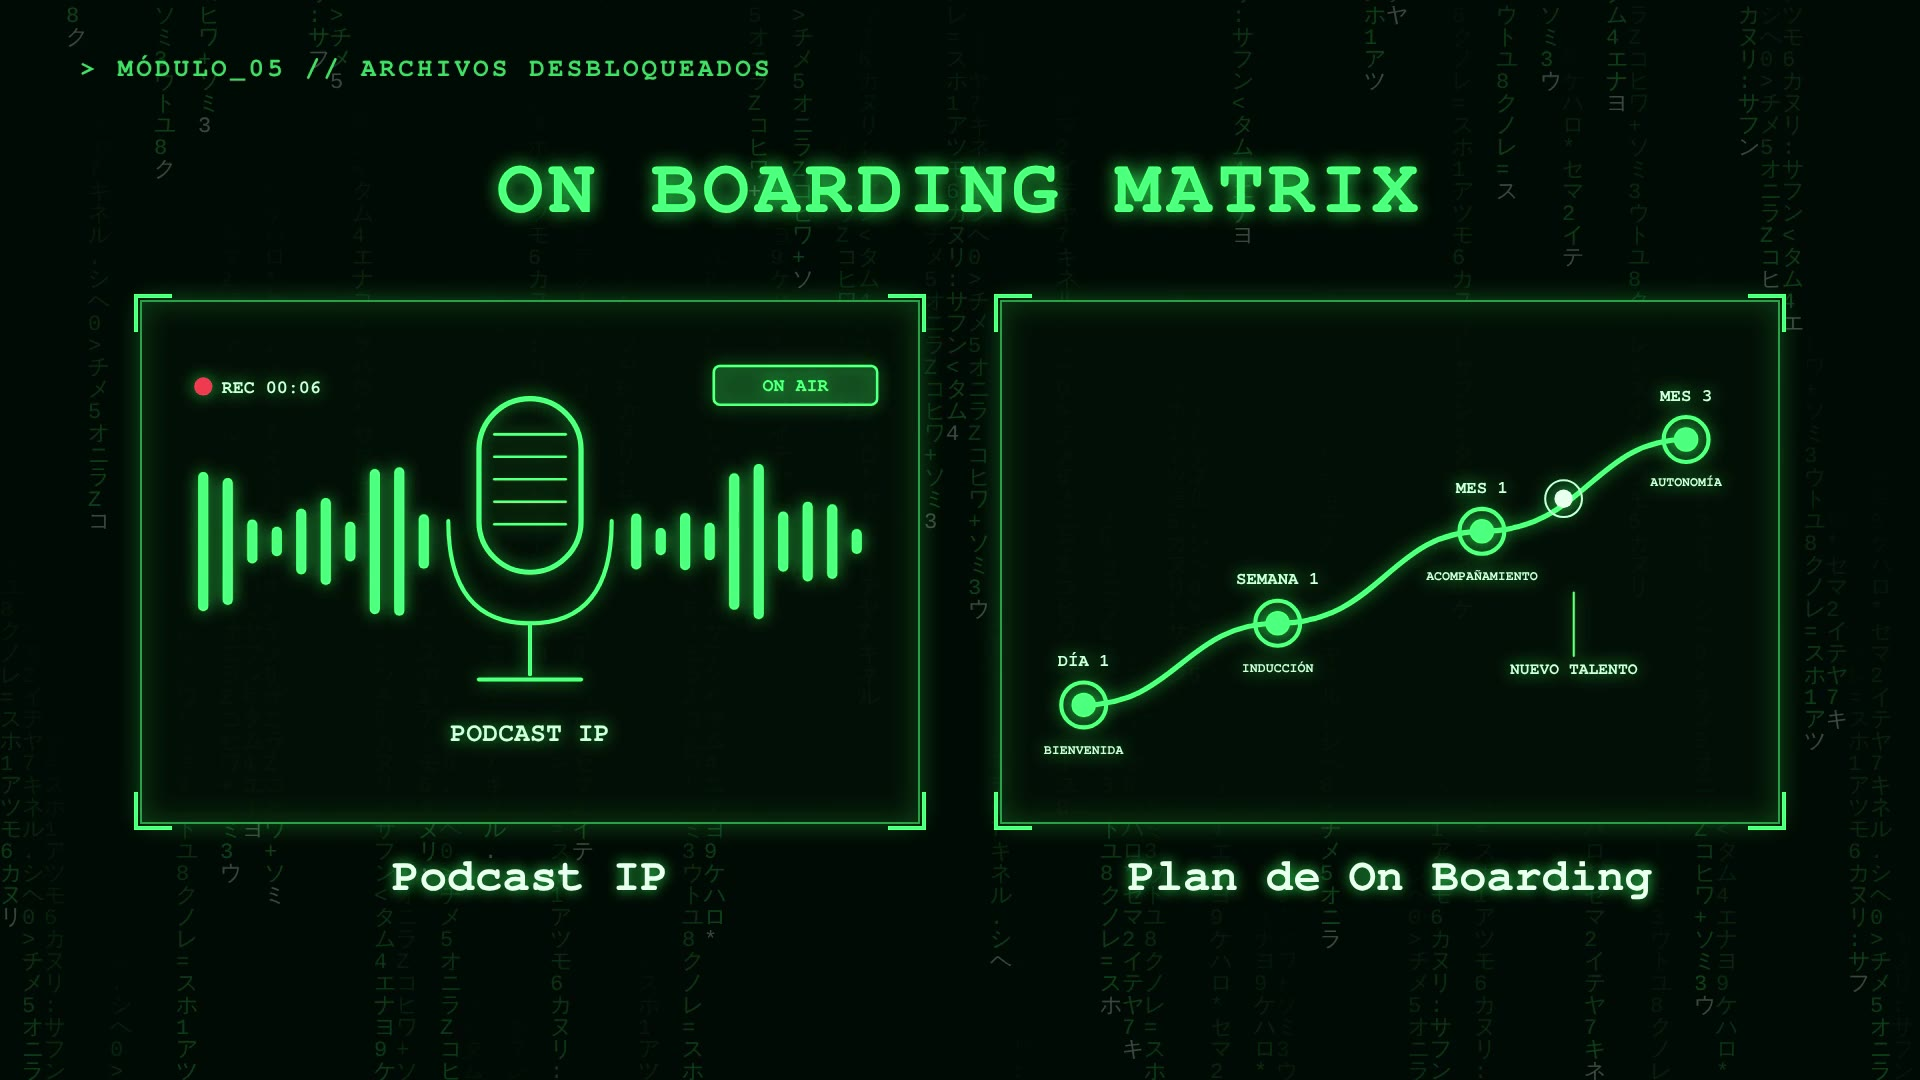
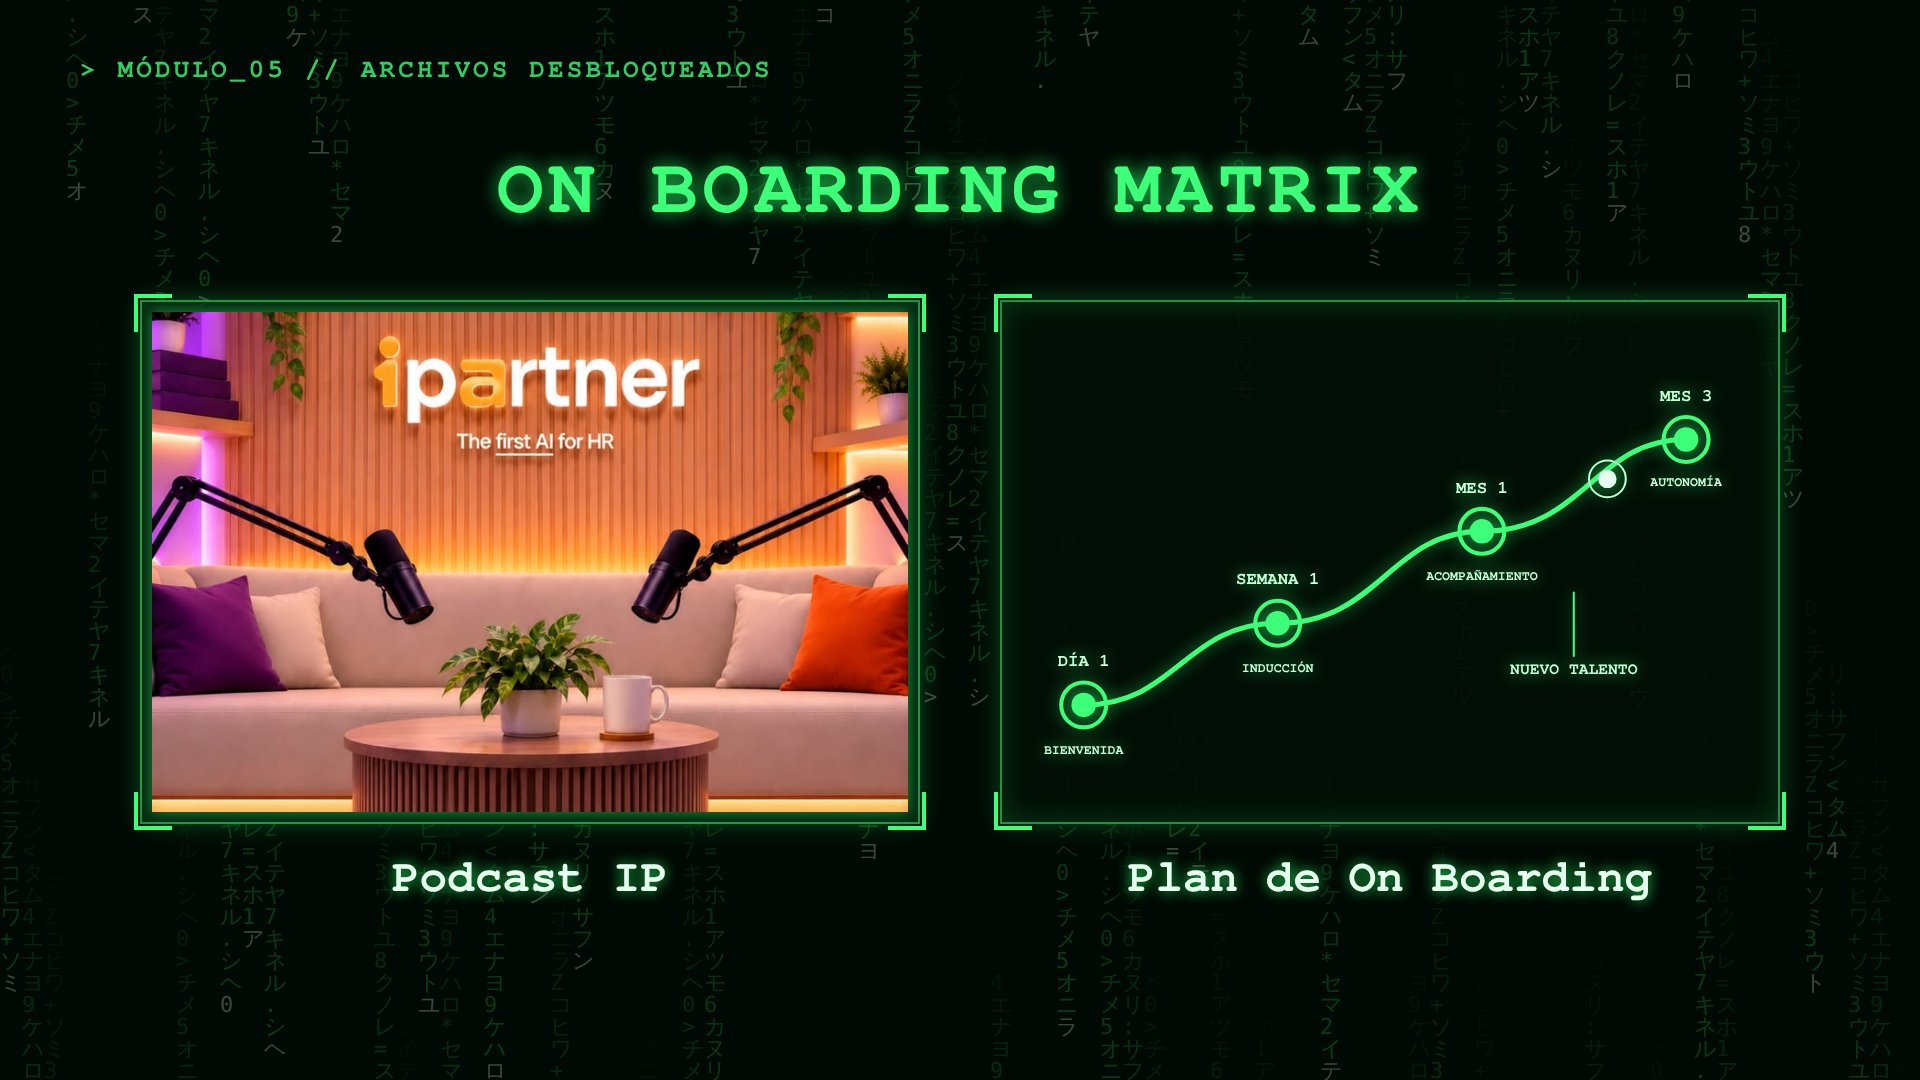
Matrix: imágenes para Factoring BCP y Podcast IP
Claude-Session: https://claude.ai/code/session_01TNESLuQNUwZZ73yDMFRmWn

diff --git a/videos/matrix-2026/compositions/m4-ppt.html b/videos/matrix-2026/compositions/m4-ppt.html
@@ -37,7 +37,7 @@
     <div class="tit" id="t1"></div>
   </div>
   <div id="c2" class="abs card">
-    <div class="marco"><svg class="ico" viewBox="0 0 760 440"><rect stroke="#3dff7a" fill="none" stroke-linecap="round" stroke-linejoin="round" pathLength="1" class="tr" stroke-width="4" x="50" y="100" width="150" height="190" rx="8"/><text font-family="Maquina, monospace" fill="#c8ffd8" font-size="18" x="125" y="135" text-anchor="middle" class="fx" data-t="1.8">FACTURA</text><path stroke="#3dff7a" fill="none" stroke-linecap="round" stroke-linejoin="round" pathLength="1" class="tr" stroke-width="2.5" d="M75 165 H175"/><path stroke="#3dff7a" fill="none" stroke-linecap="round" stroke-linejoin="round" pathLength="1" class="tr" stroke-width="2.5" d="M75 193 H175"/><path stroke="#3dff7a" fill="none" stroke-linecap="round" stroke-linejoin="round" pathLength="1" class="tr" stroke-width="2.5" d="M75 221 H175"/><path stroke="#3dff7a" fill="none" stroke-linecap="round" stroke-linejoin="round" pathLength="1" class="tr" stroke-width="2.5" d="M75 249 H175"/><path stroke="#3dff7a" fill="none" stroke-linecap="round" stroke-linejoin="round" pathLength="1" class="tr" stroke-width="3" d="M215 195 H305"/><path stroke="#3dff7a" fill="none" stroke-linecap="round" stroke-linejoin="round" pathLength="1" class="tr" stroke-width="3" d="M290 182 L305 195 L290 208"/><path stroke="#3dff7a" fill="none" stroke-linecap="round" stroke-linejoin="round" pathLength="1" class="tr" stroke-width="4" d="M320 150 L380 110 L440 150 Z"/><path stroke="#3dff7a" fill="none" stroke-linecap="round" stroke-linejoin="round" pathLength="1" class="tr" stroke-width="4" d="M330 155 H430"/><path stroke="#3dff7a" fill="none" stroke-linecap="round" stroke-linejoin="round" pathLength="1" class="tr" stroke-width="5" d="M340 165 V245"/><path stroke="#3dff7a" fill="none" stroke-linecap="round" stroke-linejoin="round" pathLength="1" class="tr" stroke-width="5" d="M366 165 V245"/><path stroke="#3dff7a" fill="none" stroke-linecap="round" stroke-linejoin="round" pathLength="1" class="tr" stroke-width="5" d="M392 165 V245"/><path stroke="#3dff7a" fill="none" stroke-linecap="round" stroke-linejoin="round" pathLength="1" class="tr" stroke-width="5" d="M418 165 V245"/><path stroke="#3dff7a" fill="none" stroke-linecap="round" stroke-linejoin="round" pathLength="1" class="tr" stroke-width="4" d="M322 255 H438"/><text font-family="Maquina, monospace" fill="#c8ffd8" font-size="20" x="380" y="290" text-anchor="middle" class="fx" data-t="2.4">BCP</text><text font-family="Maquina, monospace" fill="#c8ffd8" font-size="14" x="380" y="312" text-anchor="middle" class="fx" data-t="2.6">FACTORING</text><path stroke="#3dff7a" fill="none" stroke-linecap="round" stroke-linejoin="round" pathLength="1" class="tr" stroke-width="3" d="M455 195 H545"/><path stroke="#3dff7a" fill="none" stroke-linecap="round" stroke-linejoin="round" pathLength="1" class="tr" stroke-width="3" d="M530 182 L545 195 L530 208"/><ellipse stroke="#3dff7a" fill="none" stroke-linecap="round" stroke-linejoin="round" pathLength="1" class="tr" stroke-width="3" cx="630" cy="245" rx="58" ry="14"/><ellipse stroke="#3dff7a" fill="none" stroke-linecap="round" stroke-linejoin="round" pathLength="1" class="tr" stroke-width="3" cx="630" cy="223" rx="58" ry="14"/><ellipse stroke="#3dff7a" fill="none" stroke-linecap="round" stroke-linejoin="round" pathLength="1" class="tr" stroke-width="3" cx="630" cy="201" rx="58" ry="14"/><ellipse stroke="#3dff7a" fill="none" stroke-linecap="round" stroke-linejoin="round" pathLength="1" class="tr" stroke-width="3" cx="630" cy="179" rx="58" ry="14"/><text font-family="Maquina, monospace" fill="#c8ffd8" font-size="30" x="630" y="170" text-anchor="middle" class="fx" data-t="3.0">S/</text><text font-family="Maquina, monospace" fill="#c8ffd8" font-size="16" x="630" y="290" text-anchor="middle" class="fx" data-t="3.2">LIQUIDEZ</text><g data-mov="125,195;380,195;630,195|3|0.0|3.6" opacity="0"><rect x="-14" y="-18" width="28" height="36" rx="3" fill="rgba(61,255,122,.25)" stroke="#3dff7a" stroke-width="2"/></g><g data-mov="125,195;380,195;630,195|3|0.3333333333333333|3.6" opacity="0"><rect x="-14" y="-18" width="28" height="36" rx="3" fill="rgba(61,255,122,.25)" stroke="#3dff7a" stroke-width="2"/></g><g data-mov="125,195;380,195;630,195|3|0.6666666666666666|3.6" opacity="0"><rect x="-14" y="-18" width="28" height="36" rx="3" fill="rgba(61,255,122,.25)" stroke="#3dff7a" stroke-width="2"/></g><path stroke="#3dff7a" fill="none" stroke-linecap="round" stroke-linejoin="round" pathLength="1" class="tr" stroke-width="3" d="M60 400 L150 385 L240 392 L330 365 L420 372 L510 340 L600 345 L700 312"/><text font-family="Maquina, monospace" fill="#c8ffd8" font-size="15" x="60" y="355" text-anchor="start" class="fx" data-t="4.0">FLUJO DE CAJA ▲</text></svg><div class="tapa abs"></div><div class="scan abs"></div>
+    <div class="marco"><img class="ico" src="../assets/iconos/factoring.png" style="object-fit:contain;padding:18px;box-sizing:border-box" alt="Factoring BCP"/><div class="tapa abs"></div><div class="scan abs"></div>
       <i class="esq a"></i><i class="esq b"></i><i class="esq c"></i><i class="esq d"></i></div>
     <div class="tit" id="t2"></div>
   </div>
@@ -124,7 +124,7 @@
     tl.fromTo(c + " .tr", { strokeDashoffset: 1 }, { strokeDashoffset: 0, duration: 0.9, stagger: 0.12, ease: "power1.inOut", immediateRender: false }, d + 0.5);
   });
   window.__timelines = window.__timelines || {};
-  tl.fromTo("#c1 .ico", { y: 0 }, { y: -10, duration: 1.6, ease: "sine.inOut", repeat: 5, yoyo: true, immediateRender: false }, 2.0);
+  tl.fromTo("#c1 .ico, #c2 .ico", { y: 0 }, { y: -10, duration: 1.6, ease: "sine.inOut", repeat: 5, yoyo: true, immediateRender: false }, 2.0);
   window.__timelines["m4-ppt"] = tl;
   pintar(); tl.seek(0);
   // modo presentación: tras la entrada, la lluvia sigue en bucle

diff --git a/videos/matrix-2026/compositions/m5-ppt.html b/videos/matrix-2026/compositions/m5-ppt.html
@@ -32,7 +32,7 @@
   <div id="mod" class="abs"></div>
   <div id="h" class="abs"></div>
   <div id="c1" class="abs card">
-    <div class="marco"><svg class="ico" viewBox="0 0 760 440"><rect stroke="#3dff7a" fill="none" stroke-linecap="round" stroke-linejoin="round" pathLength="1" class="tr" stroke-width="5" x="330" y="60" width="100" height="170" rx="50"/><path stroke="#3dff7a" fill="none" stroke-linecap="round" stroke-linejoin="round" pathLength="1" class="tr" stroke-width="2.5" d="M345 95 H415"/><path stroke="#3dff7a" fill="none" stroke-linecap="round" stroke-linejoin="round" pathLength="1" class="tr" stroke-width="2.5" d="M345 117 H415"/><path stroke="#3dff7a" fill="none" stroke-linecap="round" stroke-linejoin="round" pathLength="1" class="tr" stroke-width="2.5" d="M345 139 H415"/><path stroke="#3dff7a" fill="none" stroke-linecap="round" stroke-linejoin="round" pathLength="1" class="tr" stroke-width="2.5" d="M345 161 H415"/><path stroke="#3dff7a" fill="none" stroke-linecap="round" stroke-linejoin="round" pathLength="1" class="tr" stroke-width="2.5" d="M345 183 H415"/><path stroke="#3dff7a" fill="none" stroke-linecap="round" stroke-linejoin="round" pathLength="1" class="tr" stroke-width="4" d="M300 180 Q300 280 380 280 Q460 280 460 180"/><path stroke="#3dff7a" fill="none" stroke-linecap="round" stroke-linejoin="round" pathLength="1" class="tr" stroke-width="4" d="M380 280 V330"/><path stroke="#3dff7a" fill="none" stroke-linecap="round" stroke-linejoin="round" pathLength="1" class="tr" stroke-width="4" d="M330 335 H430"/><line class="onda" data-on="2.6" x1="60" x2="60" y1="200" y2="200" stroke="#3dff7a" stroke-width="10" stroke-linecap="round"/><line class="onda" data-on="2.6" x1="84" x2="84" y1="200" y2="200" stroke="#3dff7a" stroke-width="10" stroke-linecap="round"/><line class="onda" data-on="2.6" x1="108" x2="108" y1="200" y2="200" stroke="#3dff7a" stroke-width="10" stroke-linecap="round"/><line class="onda" data-on="2.6" x1="132" x2="132" y1="200" y2="200" stroke="#3dff7a" stroke-width="10" stroke-linecap="round"/><line class="onda" data-on="2.6" x1="156" x2="156" y1="200" y2="200" stroke="#3dff7a" stroke-width="10" stroke-linecap="round"/><line class="onda" data-on="2.6" x1="180" x2="180" y1="200" y2="200" stroke="#3dff7a" stroke-width="10" stroke-linecap="round"/><line class="onda" data-on="2.6" x1="204" x2="204" y1="200" y2="200" stroke="#3dff7a" stroke-width="10" stroke-linecap="round"/><line class="onda" data-on="2.6" x1="228" x2="228" y1="200" y2="200" stroke="#3dff7a" stroke-width="10" stroke-linecap="round"/><line class="onda" data-on="2.6" x1="252" x2="252" y1="200" y2="200" stroke="#3dff7a" stroke-width="10" stroke-linecap="round"/><line class="onda" data-on="2.6" x1="276" x2="276" y1="200" y2="200" stroke="#3dff7a" stroke-width="10" stroke-linecap="round"/><line class="onda" data-on="2.6" x1="484" x2="484" y1="200" y2="200" stroke="#3dff7a" stroke-width="10" stroke-linecap="round"/><line class="onda" data-on="2.6" x1="508" x2="508" y1="200" y2="200" stroke="#3dff7a" stroke-width="10" stroke-linecap="round"/><line class="onda" data-on="2.6" x1="532" x2="532" y1="200" y2="200" stroke="#3dff7a" stroke-width="10" stroke-linecap="round"/><line class="onda" data-on="2.6" x1="556" x2="556" y1="200" y2="200" stroke="#3dff7a" stroke-width="10" stroke-linecap="round"/><line class="onda" data-on="2.6" x1="580" x2="580" y1="200" y2="200" stroke="#3dff7a" stroke-width="10" stroke-linecap="round"/><line class="onda" data-on="2.6" x1="604" x2="604" y1="200" y2="200" stroke="#3dff7a" stroke-width="10" stroke-linecap="round"/><line class="onda" data-on="2.6" x1="628" x2="628" y1="200" y2="200" stroke="#3dff7a" stroke-width="10" stroke-linecap="round"/><line class="onda" data-on="2.6" x1="652" x2="652" y1="200" y2="200" stroke="#3dff7a" stroke-width="10" stroke-linecap="round"/><line class="onda" data-on="2.6" x1="676" x2="676" y1="200" y2="200" stroke="#3dff7a" stroke-width="10" stroke-linecap="round"/><line class="onda" data-on="2.6" x1="700" x2="700" y1="200" y2="200" stroke="#3dff7a" stroke-width="10" stroke-linecap="round"/><circle cx="60" cy="48" r="9" fill="#ff4d4d" class="parp" data-t="2.4"/><text font-family="Maquina, monospace" fill="#c8ffd8" font-size="18" x="78" y="54" class="reloj" data-t="2.4">REC 00:00</text><rect x="560" y="28" width="160" height="38" rx="6" stroke="#3dff7a" stroke-width="2.5" fill="rgba(61,255,122,.15)" class="parp" data-t="2.8"/><text font-family="Maquina, monospace" font-size="18" fill="#3dff7a" x="640" y="53" text-anchor="middle" class="fx" data-t="2.8">ON AIR</text><text font-family="Maquina, monospace" fill="#c8ffd8" font-size="26" x="380" y="395" text-anchor="middle" class="fx" data-t="3.0">PODCAST IP</text></svg><div class="tapa abs"></div><div class="scan abs"></div>
+    <div class="marco"><img class="ico" src="../assets/iconos/podcast.jpg" style="object-fit:cover;object-position:50% 35%;left:10px;top:10px;width:calc(100% - 20px);height:calc(100% - 20px)" alt="Podcast IP"/><div class="tapa abs"></div><div class="scan abs"></div>
       <i class="esq a"></i><i class="esq b"></i><i class="esq c"></i><i class="esq d"></i></div>
     <div class="tit" id="t1"></div>
   </div>
